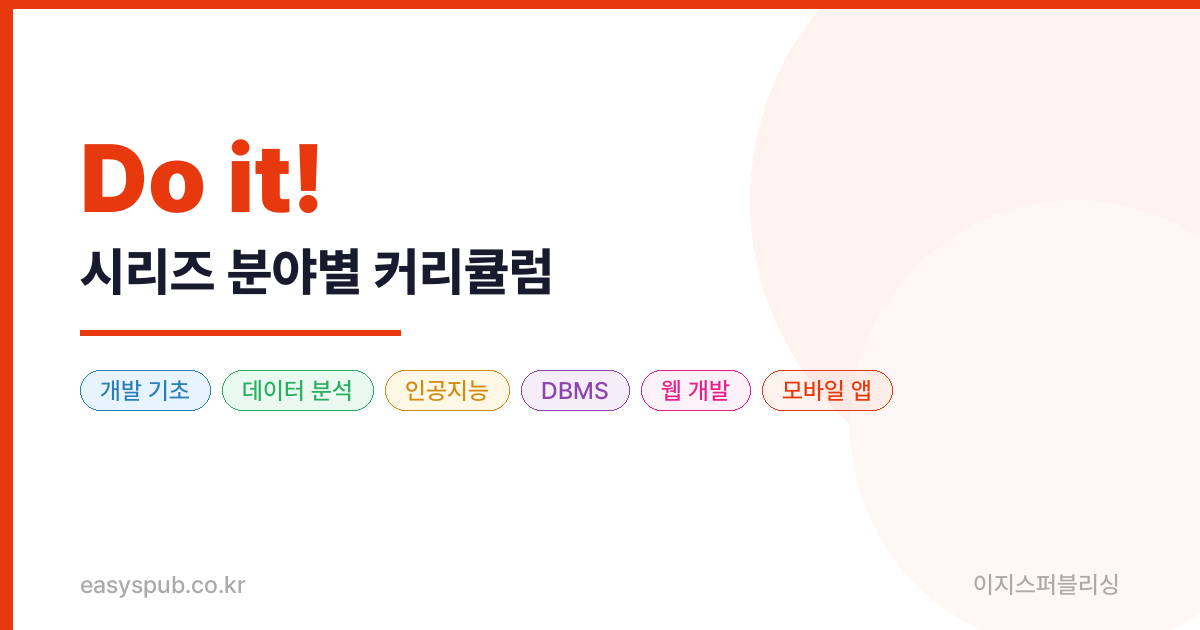
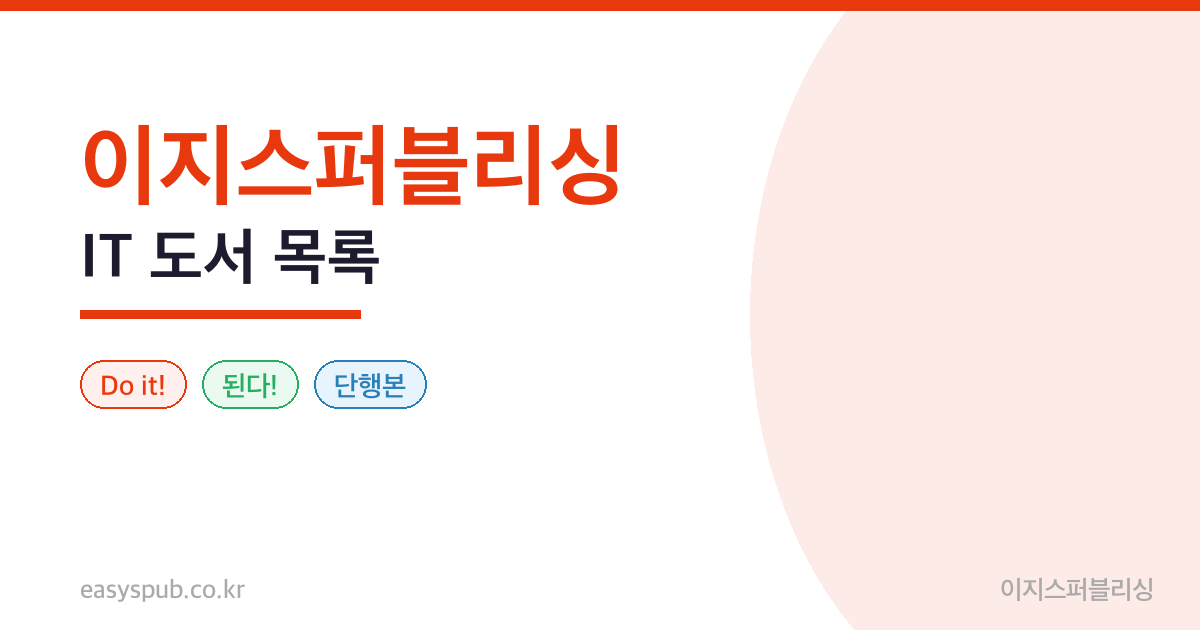
OG 이미지 교체 및 메타태그 URL 업데이트

diff --git a/index.html b/index.html
@@ -6,11 +6,11 @@
 <title>이지스퍼블리싱 도서 목록</title>
 <meta property="og:title" content="이지스퍼블리싱 도서 목록">
 <meta property="og:description" content="된다! · Do it! · 단행본 — 이지스퍼블리싱 전체 도서 목록">
-<meta property="og:image" content="https://marketer-H.github.io/curriculum/og-image.png">
-<meta property="og:url" content="https://marketer-H.github.io/curriculum/">
+<meta property="og:image" content="https://easyspublishing.github.io/it-book-catalog/og-image.png">
+<meta property="og:url" content="https://easyspublishing.github.io/it-book-catalog/">
 <meta property="og:type" content="website">
 <meta name="twitter:card" content="summary_large_image">
-<meta name="twitter:image" content="https://marketer-H.github.io/curriculum/og-image.png">
+<meta name="twitter:image" content="https://easyspublishing.github.io/it-book-catalog/og-image.png">
 <style>
   * { box-sizing: border-box; margin: 0; padding: 0; }
   body { font-family: -apple-system, BlinkMacSystemFont, "Segoe UI", sans-serif;